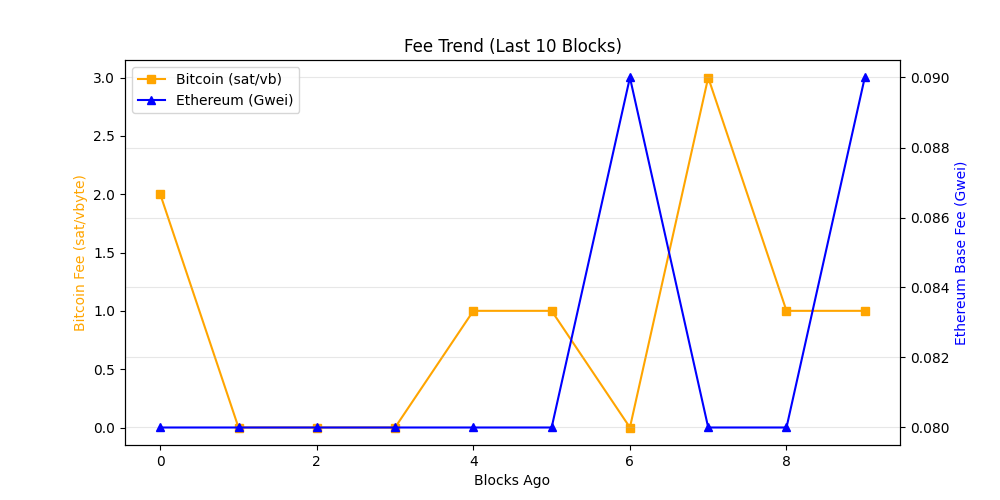
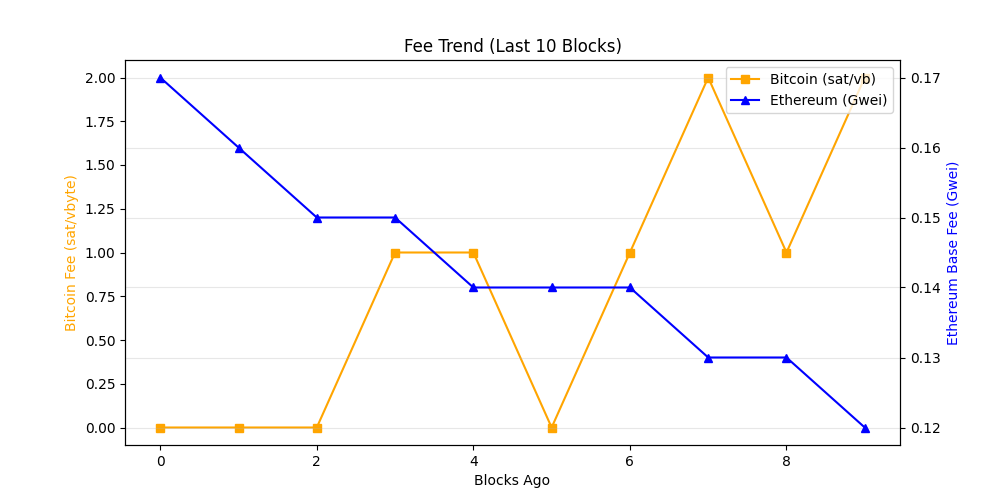
chore: update on-chain dashboard

diff --git a/README.md b/README.md
@@ -19,7 +19,7 @@ The README itself acts as the dashboard and is regenerated automatically on a 6 
 demonstrating a production-style, infrastructure-focused observability workflow rather
 than a traditional UI-driven approach.
 
-_Last updated: 2026-07-11 08:13 UTC_
+_Last updated: 2026-07-11 13:52 UTC_
 
 ## API Usage (GetBlock.io)
 - Calls used: **24**
@@ -27,8 +27,8 @@ _Last updated: 2026-07-11 08:13 UTC_
 ## Network Metrics
 | Chain | Block Height | TX Count | TPS (10 blk avg) | Block Util | Avg Fee |
 |------|-------------|----------|------------------|------------|---------|
-| Ethereum | 25508104 | 556 | 46.33 | 41.8% | 0.1 Gwei |
-| Bitcoin | 957539 | 3976 | 4.63 | 99.79% | N/A |
+| Ethereum | 25509788 | 210 | 17.5 | 33.46% | 0.1 Gwei |
+| Bitcoin | 957573 | 4464 | 3.13 | 99.8% | N/A |
 
 ## Visuals
 ### Transactions Trend
@@ -43,11 +43,11 @@ _Last updated: 2026-07-11 08:13 UTC_
 ## Whale Alerts (latest block)
 - Transaction hashes are truncated for readability.
 - Full hashes are available in `dashboards/metrics.json`
-- Bitcoin | 121.59 BTC | `194fad074d9d…`
-- Bitcoin | 289.7 BTC | `55cb18949bfb…`
-- Bitcoin | 572.46 BTC | `b2f34368c8ca…`
-- Bitcoin | 118.95 BTC | `629673f614bb…`
-- Bitcoin | 185.29 BTC | `14531ac3db00…`
+- Bitcoin | 217.83 BTC | `7d3bc32e7296…`
+- Bitcoin | 118.65 BTC | `44d16254321d…`
+- Bitcoin | 239.96 BTC | `0e116c775e04…`
+- Bitcoin | 478.28 BTC | `d7f6370d0073…`
+- Bitcoin | 993.75 BTC | `608eea88743e…`
 
 ## Run locally
 
